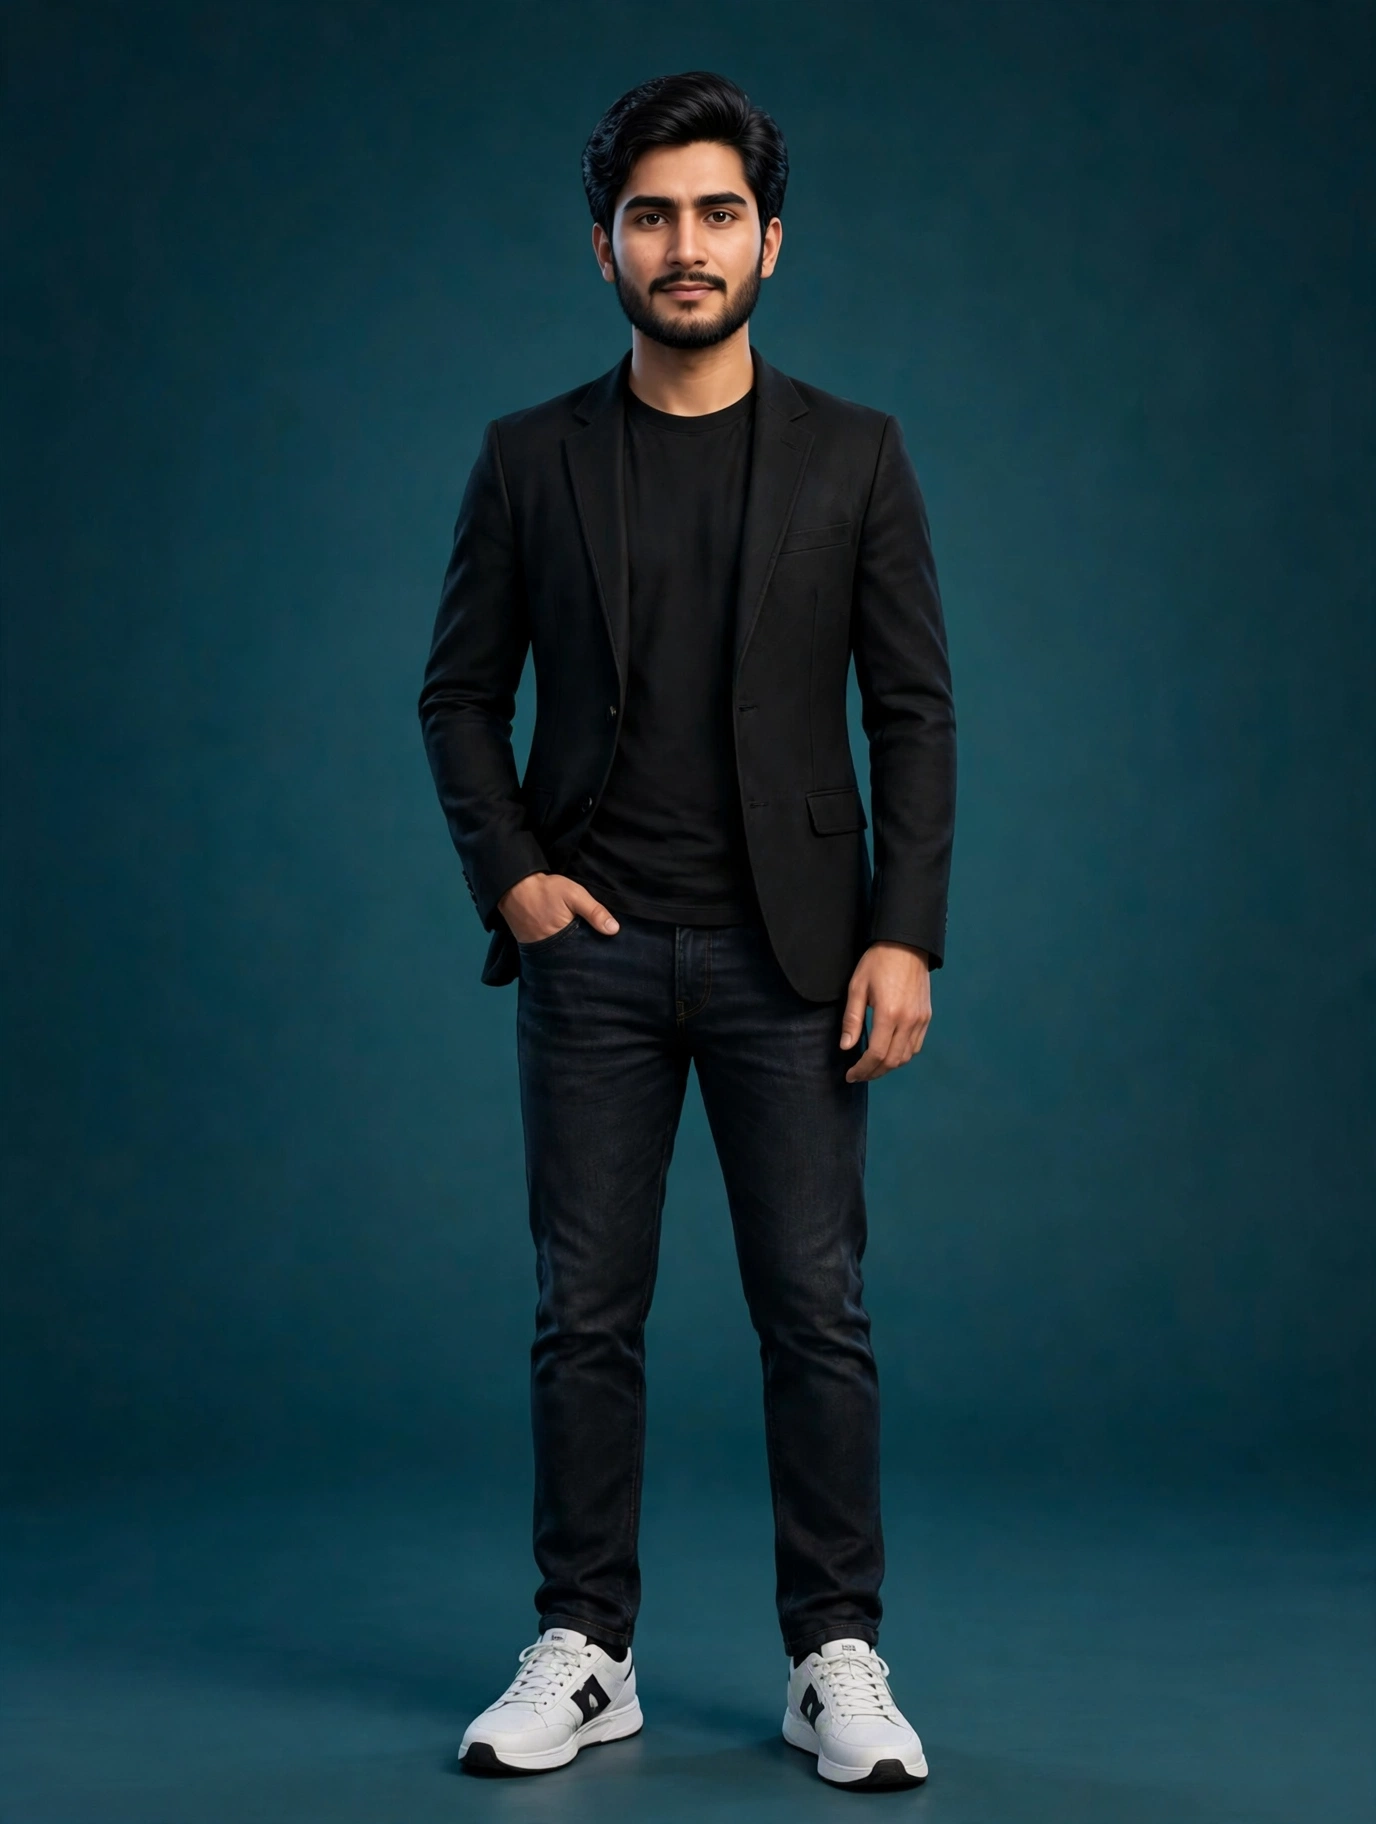
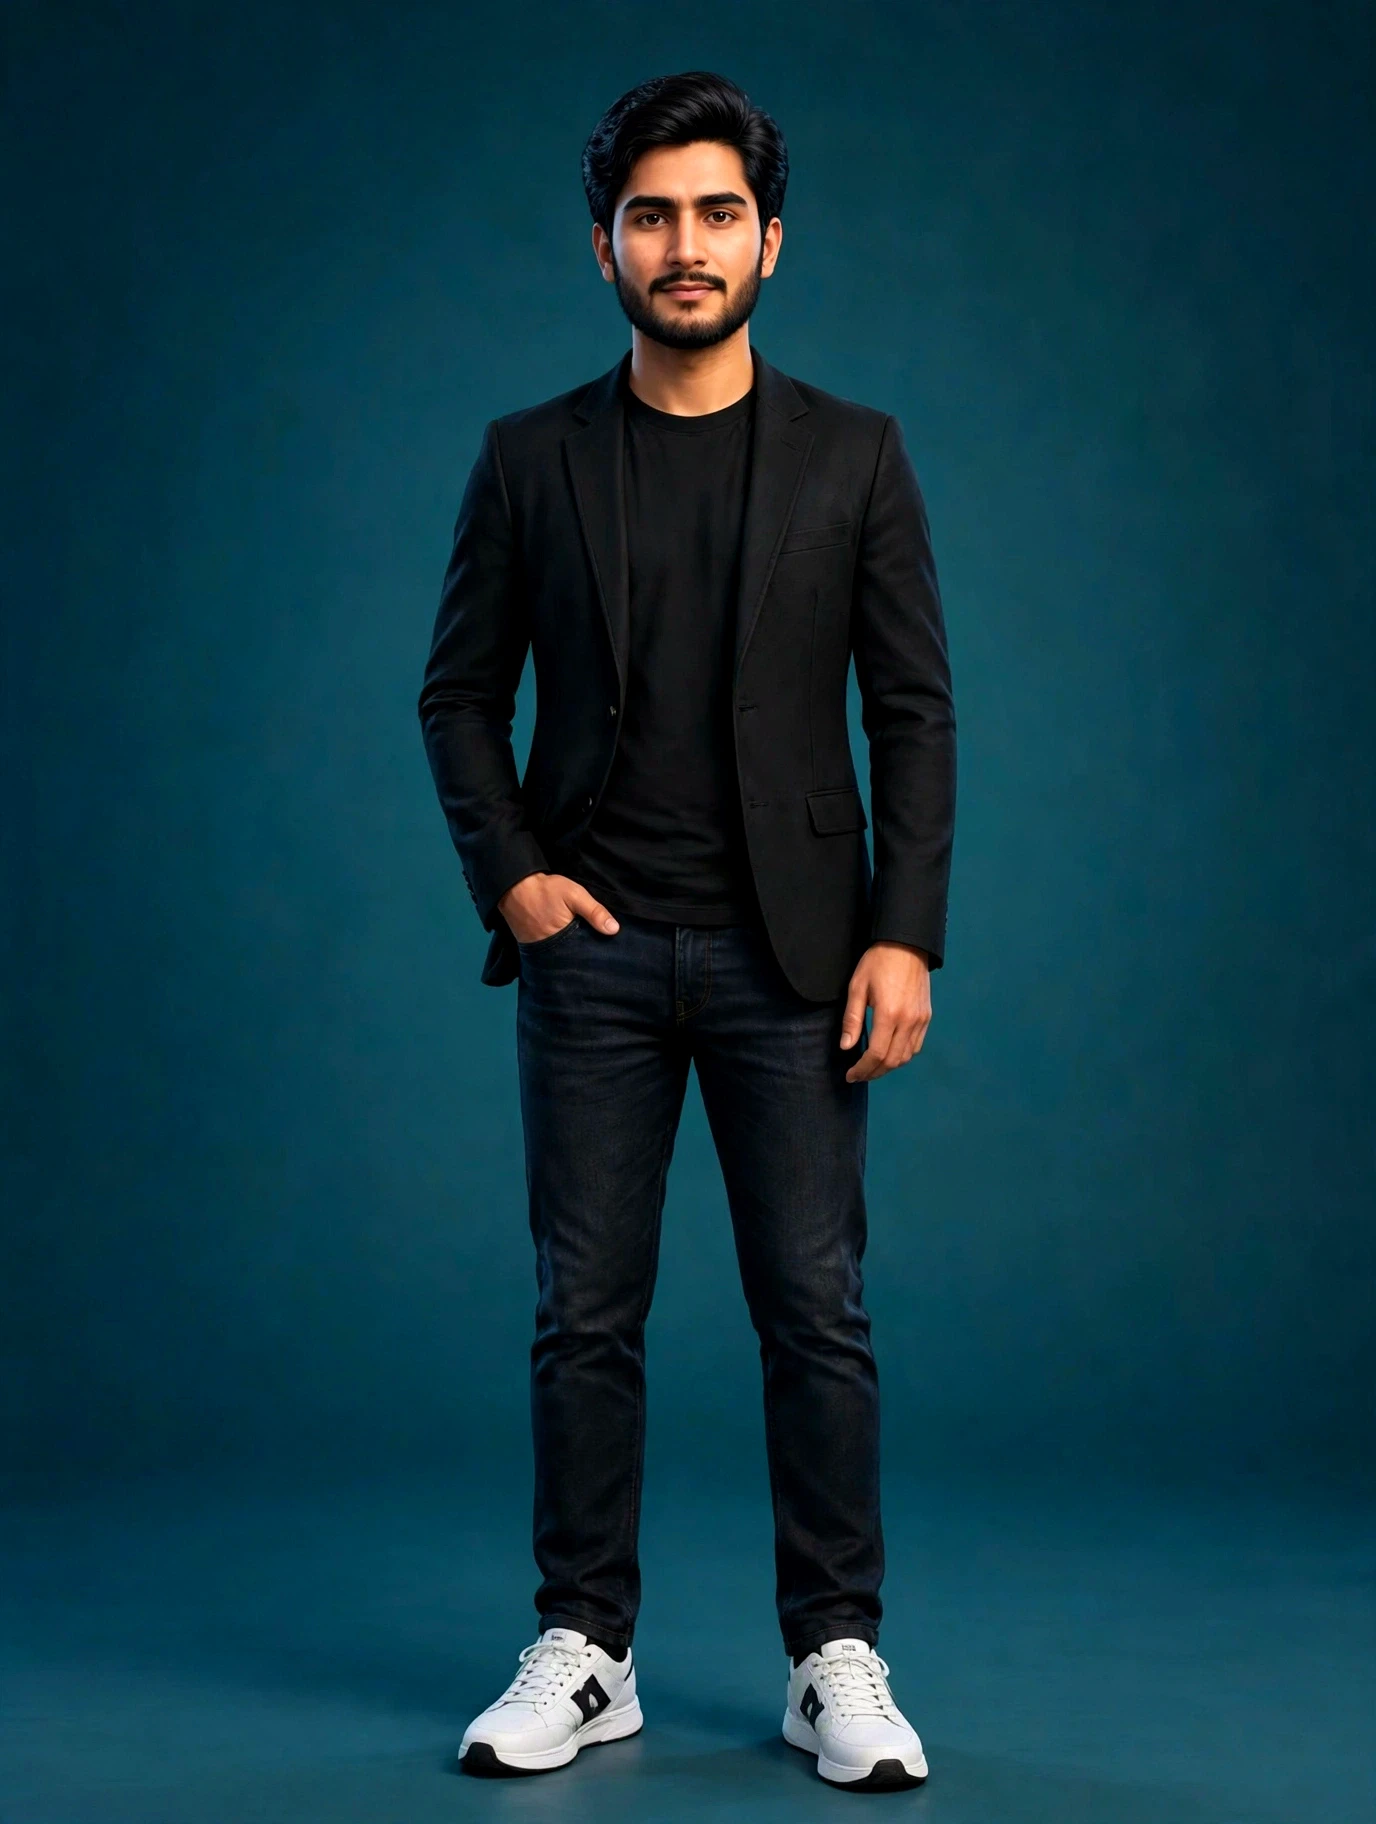
Enhanced color grading: photos re-graded (richer saturation/contrast/sharpness), cinematic ACES tone mapping + sRGB in the 3D scene, deeper teal background, saturated hero video with warm gold glow

Changed region(s): [[0.4375, 0.0625, 0.5625, 0.25], [0.5938, 0.5, 0.6875, 0.5938], [0.375, 0.4688, 0.4375, 0.5]]

diff --git a/index.html b/index.html
@@ -12,16 +12,16 @@
   :root{ --bg:#05231e; --bg2:#0a3530; --ink:#f4efe4; --mut:#b9c4bb; --gold:#c9a45c; --gold2:#f5e3bb; --card:rgba(6,32,28,.72); --line:rgba(201,164,92,.28); }
   *{margin:0;padding:0;box-sizing:border-box}
   html{scroll-behavior:smooth}
-  body{background:radial-gradient(1200px 800px at 50% -10%, #0e4a41 0%, var(--bg) 55%, #03150f 100%);color:var(--ink);font-family:'Inter',sans-serif;overflow-x:hidden}
+  body{background:radial-gradient(1200px 820px at 50% -10%, #146555 0%, var(--bg) 52%, #020f0a 100%);color:var(--ink);font-family:'Inter',sans-serif;overflow-x:hidden}
   #gl{position:fixed;inset:0;z-index:0}
   #fallback{position:fixed;inset:0;z-index:0;display:none;align-items:center;justify-content:center}
-  #fallback img{height:78vh;border-radius:18px;box-shadow:0 40px 90px rgba(0,0,0,.5)}
+  #fallback img{height:78vh;border-radius:18px;box-shadow:0 40px 90px rgba(0,0,0,.5);filter:saturate(1.3) contrast(1.08)}
   #progress{position:fixed;top:0;left:0;height:3px;width:0%;z-index:90;background:linear-gradient(90deg,var(--gold),var(--gold2))}
   /* ---------- HERO SIDE VIDEO ---------- */
   .hero-grid{display:flex;gap:28px;align-items:center}
   .hero-text{flex:1.15;min-width:0}
   .hero-vid{flex:.85;position:relative}
-  .hero-vid video{width:100%;height:min(64vh,560px);object-fit:cover;border-radius:24px;border:1px solid var(--line);box-shadow:0 30px 60px rgba(0,0,0,.45);display:block}
+  .hero-vid video{width:100%;height:min(64vh,560px);object-fit:cover;border-radius:24px;border:1px solid var(--line);box-shadow:0 30px 60px rgba(0,0,0,.45),0 0 44px rgba(201,164,92,.16);display:block;filter:saturate(1.3) contrast(1.08)}
   .hv-badge{position:absolute;top:14px;left:14px;background:rgba(4,25,21,.78);color:#ffb3a0;border:1px solid rgba(255,255,255,.25);padding:.35rem .8rem;border-radius:99px;font-size:.66rem;letter-spacing:.22em;font-weight:600}
   @media(max-width:760px){ .hero-grid{flex-direction:column} .hero-vid{width:100%} .hero-vid video{height:54vh} }
   /* ---------- LAYOUT ---------- */
@@ -200,6 +200,9 @@
   var glBox = document.getElementById('gl');
   try {
     var renderer = new THREE.WebGLRenderer({ antialias: true, alpha: true });
+    renderer.outputEncoding = THREE.sRGBEncoding;
+    renderer.toneMapping = THREE.ACESFilmicToneMapping;
+    renderer.toneMappingExposure = 1.15;
     renderer.setPixelRatio(Math.min(window.devicePixelRatio, 2));
     renderer.setSize(window.innerWidth, window.innerHeight);
     glBox.appendChild(renderer.domElement);
@@ -208,9 +211,9 @@
     var camera = new THREE.PerspectiveCamera(46, window.innerWidth / window.innerHeight, 0.1, 100);
     camera.position.set(0, 0.4, 10.5);
 
-    scene.add(new THREE.AmbientLight(0xbfd9d2, 0.85));
-    var key = new THREE.DirectionalLight(0xfff2d8, 0.9); key.position.set(4, 6, 8); scene.add(key);
-    var rim = new THREE.DirectionalLight(0xc9a45c, 0.7); rim.position.set(-6, 3, -4); scene.add(rim);
+    scene.add(new THREE.AmbientLight(0xd8efe6, 1.0));
+    var key = new THREE.DirectionalLight(0xfff2d8, 1.05); key.position.set(4, 6, 8); scene.add(key);
+    var rim = new THREE.DirectionalLight(0xe8bc66, 0.95); rim.position.set(-6, 3, -4); scene.add(rim);
 
     var stage = new THREE.Group(); scene.add(stage);
 
